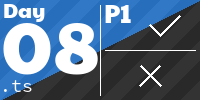
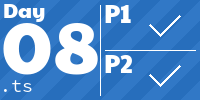
2025 Day 8 part 2

diff --git a/2025/08/main.ts b/2025/08/main.ts
@@ -6,6 +6,17 @@ function getDistance(a: number[], b: number[]) {
   return Math.pow(ax - bx, 2) + Math.pow(ay - by, 2) + Math.pow(az - bz, 2);
 }
 
+function getPart1(groups: Map<string, number>) {
+  const groupSizes = new Map<number, number>();
+
+  groups.forEach((group, _) => {
+    groupSizes.set(group, (groupSizes.get(group) || 0) + 1);
+  });
+  const groupSizesList = [...groupSizes.values()];
+  groupSizesList.sort((a, b) => b - a);
+  return groupSizesList.slice(0, 3).reduce((a, b) => a * b);
+}
+
 const input = await readLines();
 
 const boxes = input.map((line) => line.split(",").map(Number));
@@ -16,13 +27,19 @@ for (let i = 0; i < boxes.length; i++) {
   }
 }
 
+let numGroups = boxes.length;
 const groups = new Map<string, number>();
 boxes.forEach((box, i) => groups.set(box.toString(), i + 1));
 edges.sort((edge1, edge2) =>
   getDistance(edge1[0], edge1[1]) - getDistance(edge2[0], edge2[1])
 );
 edges.forEach((edge, i) => {
-  if (i > 1000) return;
+  if (i === 10 || i === 1000) {
+    console.log("Part 1:", getPart1(groups));
+  }
+  if (numGroups == 0) {
+    return;
+  }
   const [a, b] = edge;
   const aGroup = groups.get(a.toString())!;
   const bGroup = groups.get(b.toString())!;
@@ -32,14 +49,9 @@ edges.forEach((edge, i) => {
         groups.set(key, aGroup);
       }
     });
+    numGroups--;
+    if (numGroups == 1) {
+      console.log("Part 2:", a[0] * b[0]);
+    }
   }
 });
-
-const groupSizes = new Map<number, number>();
-
-groups.forEach((group, _) => {
-  groupSizes.set(group, (groupSizes.get(group) || 0) + 1);
-});
-const groupSizesList = [...groupSizes.values()];
-groupSizesList.sort((a, b) => b - a);
-console.log("Part 1:", groupSizesList.slice(0, 3).reduce((a, b) => a * b));

diff --git a/README.md b/README.md
@@ -1,9 +1,9 @@
 <!-- AOC TILES BEGIN -->
 <h1 align="center">
-  Advent of Code - 362/516 ⭐
+  Advent of Code - 363/516 ⭐
 </h1>
 <h1 align="center">
-  2025 - 15 ⭐ - TypeScript
+  2025 - 16 ⭐ - TypeScript
 </h1>
 <a href="2025/01/main.ts">
   <img src=".aoc_tiles/tiles/2025/01.png" width="161px">
